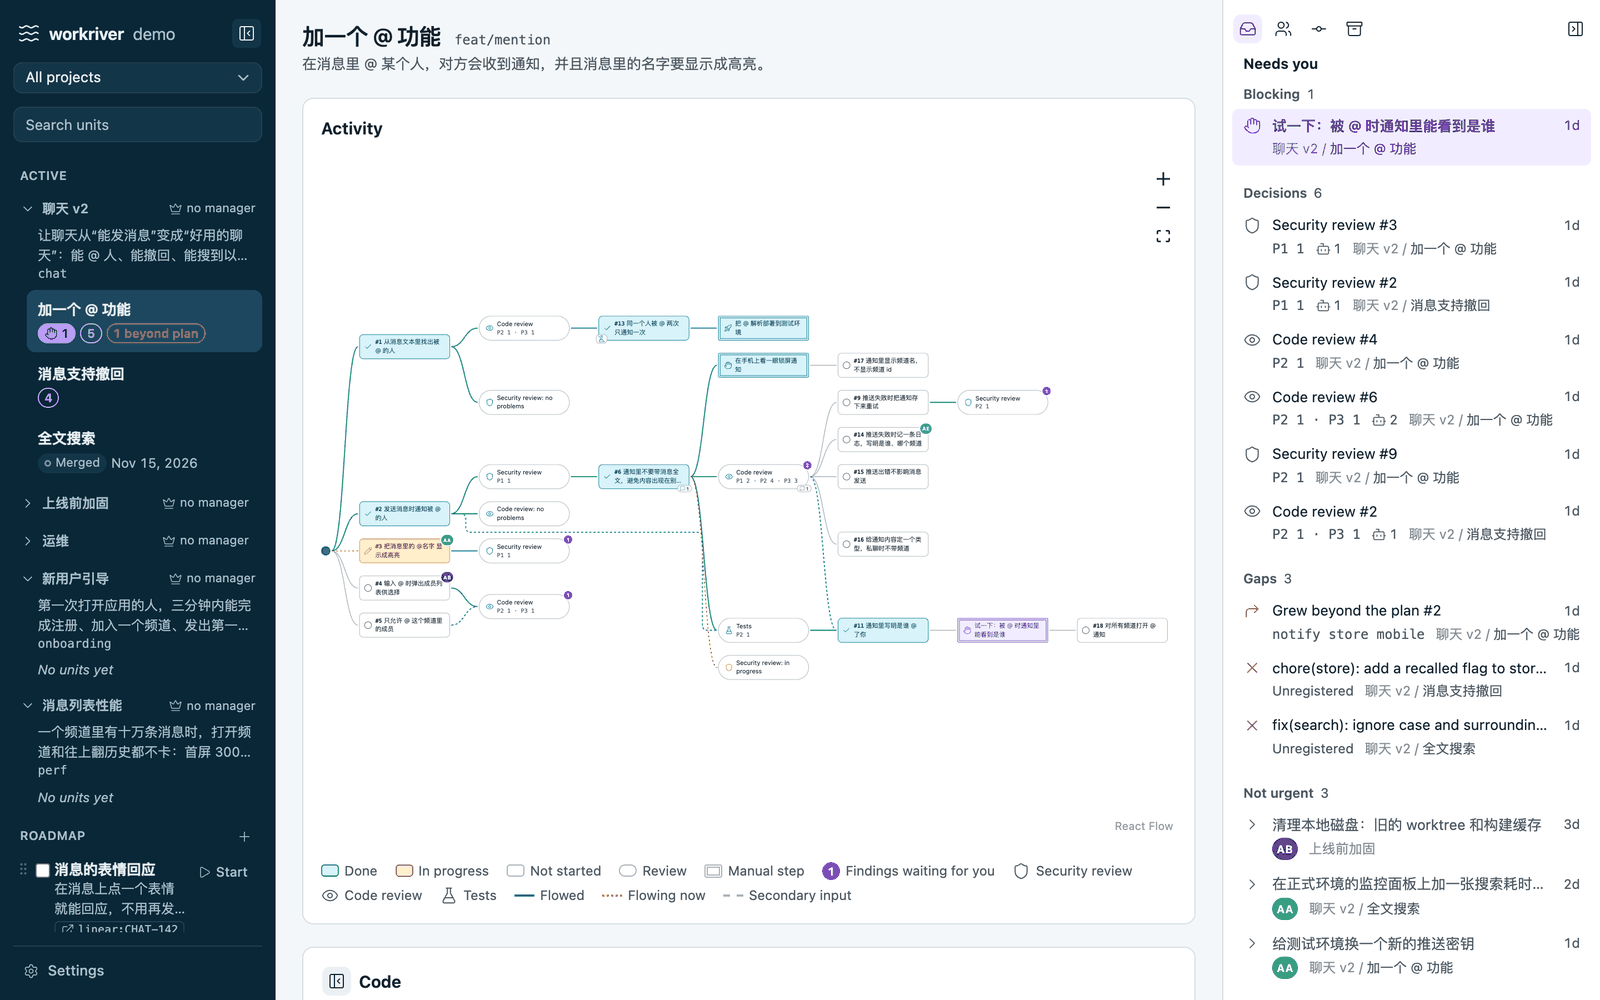
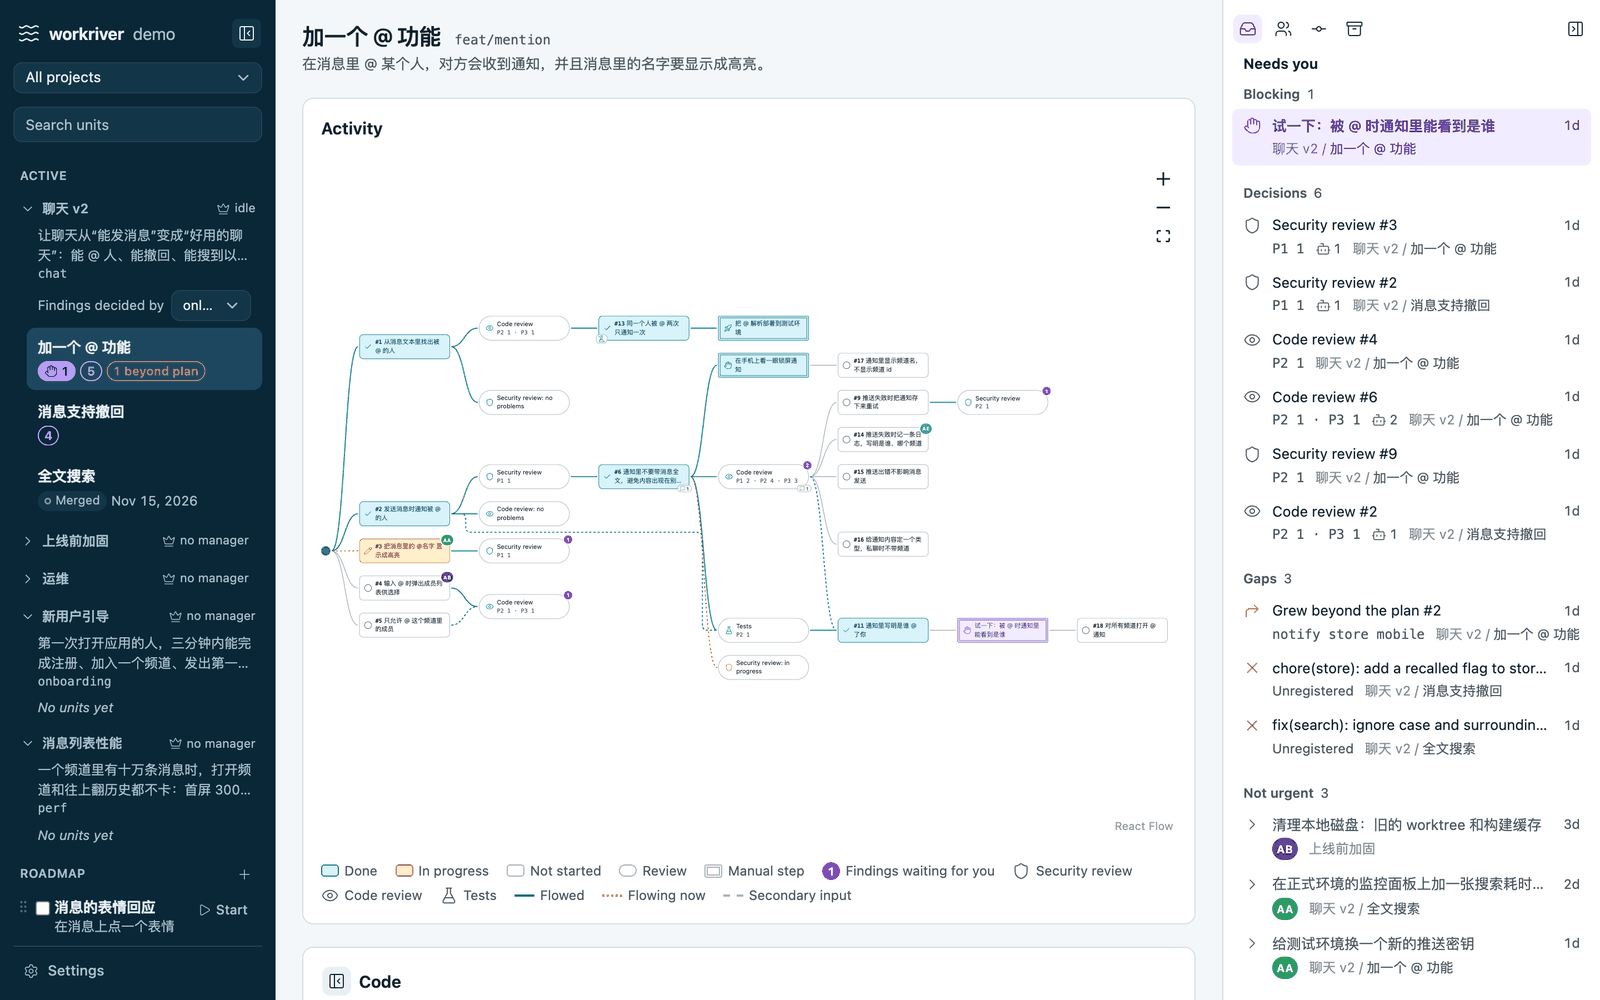
README: pictures and words agree; the sample intent has its manager
聊天 v2 in the sample data gets a manager (idle) and the findings
policy "only me", so the overview no longer says "no manager" while the
story says its manager split the work, and its findings wait in Needs
you for the reason the README now gives. With a running manager and the
default policy the service would hand them to the manager instead; the
sample now shows the case the pictures need. Every other sample case is
unchanged. overview.en and overview.zh-CN are retaken the same way as
before (2x, 1600 px, 256 colours).

The text names the colour of work flowing now (amber, dotted) and says
dashed lines are secondary inputs; it says what the backlog does with
deferred findings (done together in one batch or dropped); the Chinese
README gives both words for a gate: 手动步骤, shown as 要你动手 in the UI.

Task: u2#3

diff --git a/README.md b/README.md
@@ -63,8 +63,9 @@ the branch `feat/mention`, and hands out the first tasks.
 **The work as a graph.** Inside the unit, every task is a node in the activity graph, with
 an input and an output. #1 finds the people a message mentions, #2 notifies them, and a
 review follows each. When a review raises findings the flow branches: each accepted finding
-leads to new tasks, and the lines join again where the work does. A dotted line is work
-flowing now; a violet count marks findings waiting for you.
+leads to new tasks, and the lines join again where the work does. An amber dotted line is
+work flowing now, dashed lines are secondary inputs, and a violet count marks findings
+waiting for you.
 
 ![The activity graph of the unit "加一个 @ 功能": implement tasks, the security and code reviews after them, the tasks the code review's findings led to, and a gate at the end](docs/images/activity-graph.en.png)
 
@@ -80,9 +81,11 @@ asks the agent that did the work only when that agent is idle.
 **Findings, decided once.** The code review of #6 found nine problems, rated P1 to P3. Each
 is accepted, revised (accepted, but fixed your way), rejected or deferred. P1-1 was
 accepted and led to tasks #9 and #14; P3-2 was rejected; P3-3 was deferred to the project's
-backlog; P2-4 waits for you, with the reviewer's suggestion next to it. By default the
-intent's manager decides findings and you can always decide differently. Every decision
-goes to the manager, and an accepted finding stays visible on the tasks it caused, since
+backlog, where deferred findings wait to be done together in one batch or dropped; P2-4
+waits for you, with the reviewer's suggestion next to it. By default the intent's manager
+decides findings and you can always decide differently; for 聊天 v2 you set "Findings
+decided by: only me" in the rail, so its findings wait for you. Every decision goes to
+the manager, and an accepted finding stays visible on the tasks it caused, since
 that work must meet it.
 
 ![The code review of task #6: nine findings grouped by severity, one expanded with its impact and place, others accepted with the tasks they led to, rejected, deferred, or waiting for you](docs/images/review-findings.en.png)
